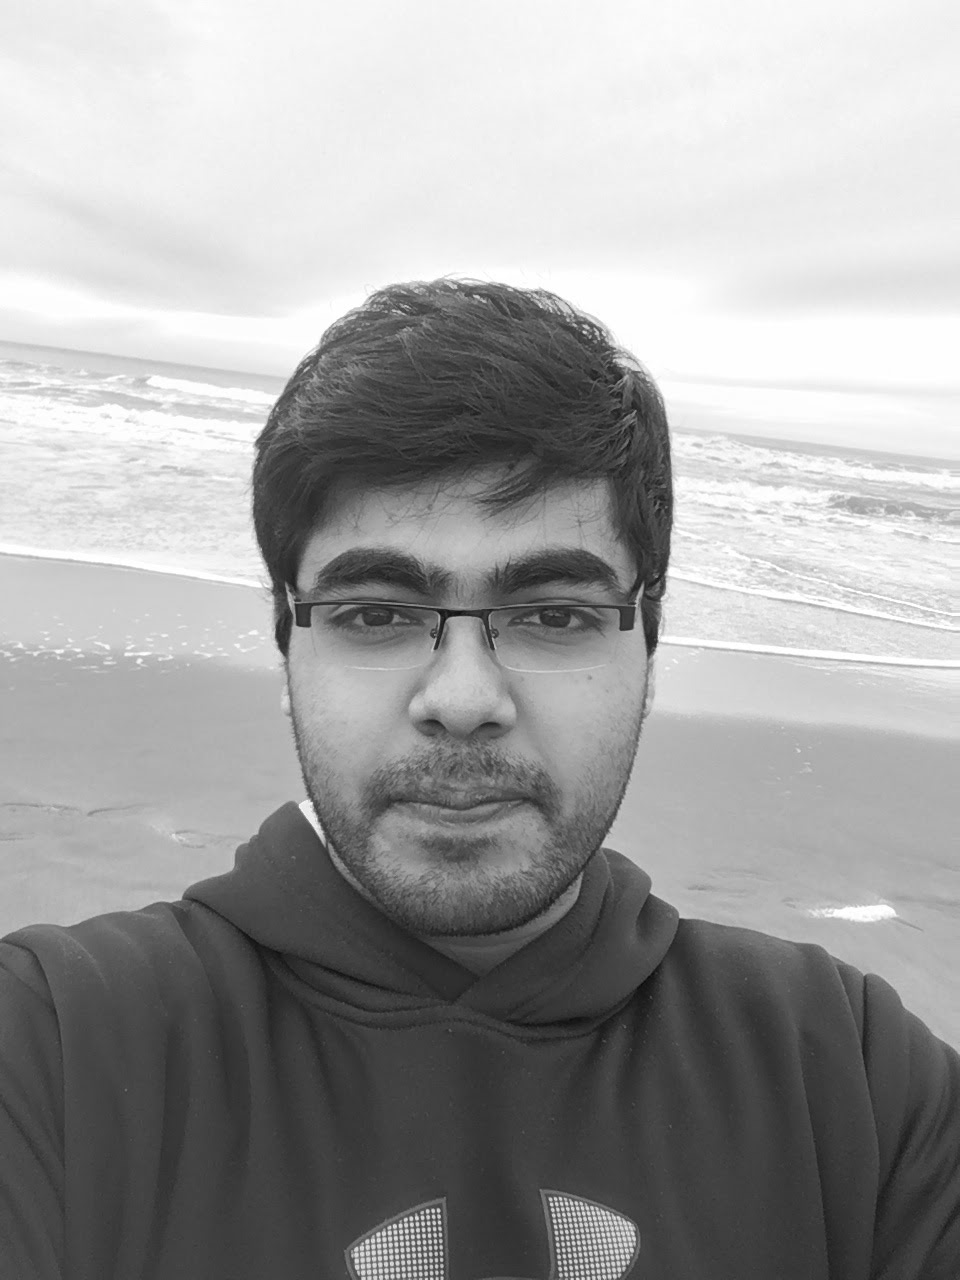
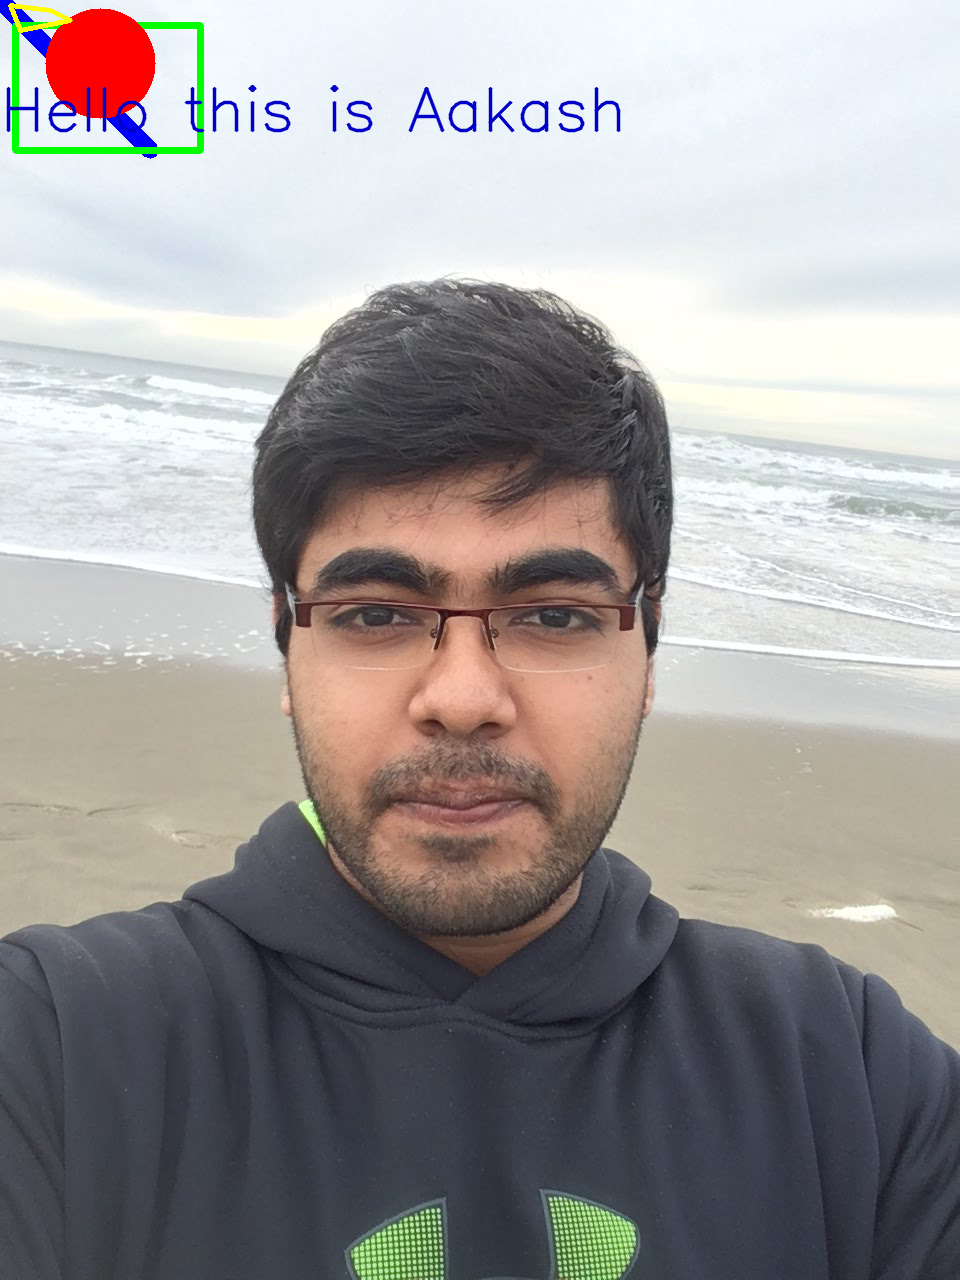
Drawing Shapes in opencv

diff --git a/DrawLine.py b/DrawLine.py
@@ -1,0 +1,33 @@
+# -*- coding: utf-8 -*-
+"""
+Created on Thu Mar  1 16:51:00 2018
+
+@author: aakash.chotrani
+"""
+
+import cv2
+import numpy as np
+
+
+
+img = cv2.imread('Aakash.jpg',cv2.IMREAD_COLOR)
+cv2.line(img,(0,0),(150,150),(255,0,0),15)
+cv2.rectangle(img,(15,25),(200,150),(0,255,0),5)
+cv2.circle(img,(100,63),55,(0,0,255),-1)
+
+pts = np.array([[10,5],[20,30],[70,20],[50,10]],np.int32)
+#pts = pts.reshape((-1,1,2))
+cv2.polylines(img,[pts],True,(0,255,255),3)
+
+font = cv2.FONT_HERSHEY_SIMPLEX
+cv2.putText(img,'Hello this is Aakash',(0,130),font,2,(200,0,0),2,cv2.LINE_AA)
+
+cv2.imshow('image',img)
+cv2.waitKey(0)
+cv2.destroyAllWindows()
+
+#plt.imshow(img,cmap='gray',interpolation = 'bicubic')
+#plt.plot([200,200],[400,1000],'c',linewidth = 5)
+#plt.show()
+
+cv2.imwrite('AakashGray.png',img)

diff --git a/OpenCvVideo.py b/OpenCvVideo.py
@@ -7,7 +7,7 @@ Created on Mon Feb 26 17:27:53 2018
 
 import cv2
 import numpy as np
-import matplotlib.pyplot as plt
+
 
 #Using system webcam
 #cap = cv2.VideoCapture(0)
